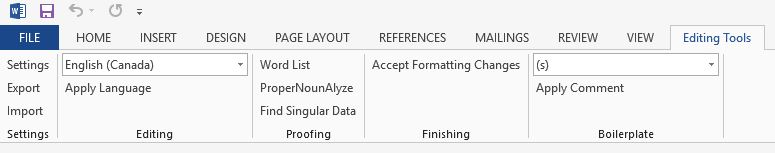
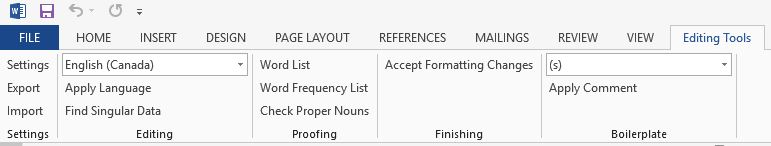
Added word frequency list and made new release

diff --git a/EditTools/Ribbon1.Designer.cs b/EditTools/Ribbon1.Designer.cs
@@ -51,6 +51,7 @@
             this.group4 = this.Factory.CreateRibbonGroup();
             this.dd_Boilerplate = this.Factory.CreateRibbonDropDown();
             this.btn_ApplyBoilerplate = this.Factory.CreateRibbonButton();
+            this.btn_WordFreq = this.Factory.CreateRibbonButton();
             this.EditingTools.SuspendLayout();
             this.group1.SuspendLayout();
             this.group2.SuspendLayout();
@@ -81,24 +82,29 @@
             // 
             this.btn_Settings.Label = "Settings";
             this.btn_Settings.Name = "btn_Settings";
+            this.btn_Settings.ScreenTip = "Add/remove/edit boilerplate and configure the edit distance for the proper noun c" +
+    "hecker";
             this.btn_Settings.Click += new Microsoft.Office.Tools.Ribbon.RibbonControlEventHandler(this.btn_Settings_Click);
             // 
             // btn_Export
             // 
             this.btn_Export.Label = "Export";
             this.btn_Export.Name = "btn_Export";
+            this.btn_Export.ScreenTip = "Save your boilerplate to an XML file you can back up or share";
             this.btn_Export.Click += new Microsoft.Office.Tools.Ribbon.RibbonControlEventHandler(this.btn_Export_Click);
             // 
             // btn_Import
             // 
             this.btn_Import.Label = "Import";
             this.btn_Import.Name = "btn_Import";
+            this.btn_Import.ScreenTip = "Import a boilerplate XML file";
             this.btn_Import.Click += new Microsoft.Office.Tools.Ribbon.RibbonControlEventHandler(this.button1_Click);
             // 
             // group2
             // 
             this.group2.Items.Add(this.dd_Langs);
             this.group2.Items.Add(this.btn_FixLang);
+            this.group2.Items.Add(this.btn_SingData);
             this.group2.Label = "Editing";
             this.group2.Name = "group2";
             // 
@@ -106,6 +112,8 @@
             // 
             this.dd_Langs.Label = "Languages";
             this.dd_Langs.Name = "dd_Langs";
+            this.dd_Langs.ScreenTip = "Apply selected language to the entire  document, including notes, headers and foo" +
+    "ters";
             this.dd_Langs.ShowLabel = false;
             this.dd_Langs.SizeString = "WWWWWWWWWWWWWWW";
             // 
@@ -113,13 +121,15 @@
             // 
             this.btn_FixLang.Label = "Apply Language";
             this.btn_FixLang.Name = "btn_FixLang";
+            this.btn_FixLang.ScreenTip = "Apply selected language to the entire  document, including notes, headers and foo" +
+    "ters";
             this.btn_FixLang.Click += new Microsoft.Office.Tools.Ribbon.RibbonControlEventHandler(this.btn_FixLang_Click);
             // 
             // group3
             // 
             this.group3.Items.Add(this.btn_WordList);
+            this.group3.Items.Add(this.btn_WordFreq);
             this.group3.Items.Add(this.btn_ProperNouns);
-            this.group3.Items.Add(this.btn_SingData);
             this.group3.Label = "Proofing";
             this.group3.Name = "group3";
             // 
@@ -127,18 +137,22 @@
             // 
             this.btn_WordList.Label = "Word List";
             this.btn_WordList.Name = "btn_WordList";
+            this.btn_WordList.ScreenTip = "Generate a list of all the unique words in the document";
             this.btn_WordList.Click += new Microsoft.Office.Tools.Ribbon.RibbonControlEventHandler(this.btn_WordList_Click);
             // 
             // btn_ProperNouns
             // 
-            this.btn_ProperNouns.Label = "ProperNounAlyze";
+            this.btn_ProperNouns.Label = "Check Proper Nouns";
             this.btn_ProperNouns.Name = "btn_ProperNouns";
+            this.btn_ProperNouns.ScreenTip = "Find proper nouns that sound alike or that differ by a configurable edit distance" +
+    "";
             this.btn_ProperNouns.Click += new Microsoft.Office.Tools.Ribbon.RibbonControlEventHandler(this.btn_ProperNouns_Click);
             // 
             // btn_SingData
             // 
             this.btn_SingData.Label = "Find Singular Data";
             this.btn_SingData.Name = "btn_SingData";
+            this.btn_SingData.ScreenTip = "Find \"data\" used as a singular noun";
             this.btn_SingData.Click += new Microsoft.Office.Tools.Ribbon.RibbonControlEventHandler(this.btn_SingData_Click);
             // 
             // grp_Finishing
@@ -164,6 +178,7 @@
             // 
             this.dd_Boilerplate.Label = "Comments";
             this.dd_Boilerplate.Name = "dd_Boilerplate";
+            this.dd_Boilerplate.ScreenTip = "Use the \"Settings\" button to add/remove/edit boilerplate";
             this.dd_Boilerplate.ShowLabel = false;
             this.dd_Boilerplate.SizeString = "WWWWWWWWWWWWWWW";
             // 
@@ -171,7 +186,15 @@
             // 
             this.btn_ApplyBoilerplate.Label = "Apply Comment";
             this.btn_ApplyBoilerplate.Name = "btn_ApplyBoilerplate";
+            this.btn_ApplyBoilerplate.ScreenTip = "Click to apply selected comment to the selected text; Use the \"Settings\" button t" +
+    "o add/remove/edit boilerplate";
             this.btn_ApplyBoilerplate.Click += new Microsoft.Office.Tools.Ribbon.RibbonControlEventHandler(this.btn_ApplyBoilerplate_Click);
+            // 
+            // btn_WordFreq
+            // 
+            this.btn_WordFreq.Label = "Word Frequency List";
+            this.btn_WordFreq.Name = "btn_WordFreq";
+            this.btn_WordFreq.Click += new Microsoft.Office.Tools.Ribbon.RibbonControlEventHandler(this.btn_WordFreq_Click);
             // 
             // Ribbon1
             // 
@@ -214,6 +237,7 @@
         internal Microsoft.Office.Tools.Ribbon.RibbonButton btn_SingData;
         internal Microsoft.Office.Tools.Ribbon.RibbonGroup grp_Finishing;
         internal Microsoft.Office.Tools.Ribbon.RibbonButton btn_AcceptFormatting;
+        internal Microsoft.Office.Tools.Ribbon.RibbonButton btn_WordFreq;
     }
 
     partial class ThisRibbonCollection

diff --git a/EditTools/Ribbon1.cs b/EditTools/Ribbon1.cs
@@ -554,5 +554,71 @@ namespace EditTools
             view.ShowInsertionsAndDeletions = true;
             MessageBox.Show("Formatting changes have been accepted.");
         }
+
+        private void btn_WordFreq_Click(object sender, RibbonControlEventArgs e)
+        {
+            Word.Document doc = Globals.ThisAddIn.Application.ActiveDocument;
+            Dictionary<string, uint> wordlist = new Dictionary<string, uint>();
+            Regex re_allnums = new Regex(@"^\d+$");
+
+            foreach (Word.Range rng in TextHelpers.GetText(doc))
+            {
+                string txt = rng.Text;
+
+                //strip punctuation
+                txt = TextHelpers.StripPunctuation(txt);
+
+
+                string[] substrs = Regex.Split(txt, @"\s+");
+                foreach (string word in substrs)
+                {
+                    Match m = re_allnums.Match(word);
+                    if (!m.Success)
+                    {
+                        if (wordlist.ContainsKey(word)) {
+                            wordlist[word]++;
+                        } else
+                        {
+                            wordlist.Add(word, 1);
+                        }
+                    }
+
+                }
+            }
+
+            //Create new document
+            Word.Document newdoc = Globals.ThisAddIn.Application.Documents.Add();
+            Word.Paragraph pgraph;
+
+            //Intro text
+            pgraph = newdoc.Content.Paragraphs.Add();
+            pgraph.set_Style(newdoc.Styles["Heading 1"]);
+            pgraph.Range.Text = "Word Frequency List\n";
+            pgraph = newdoc.Content.Paragraphs.Add();
+            pgraph.set_Style(newdoc.Styles["Normal"]);
+            pgraph.Range.Text = "Capitalization is retained as is. That means that words that appear at the beginning of a sentence will appear capitalized. Don't forget that you can sort the table!\n";
+
+            pgraph = newdoc.Content.Paragraphs.Add();
+            pgraph.Range.InsertBreak(Word.WdBreakType.wdSectionBreakContinuous);
+            Word.Section sec = newdoc.Sections[2];
+            sec.PageSetup.TextColumns.SetCount(3);
+
+            var words = wordlist.ToList();
+            words.Sort((pair1, pair2) => pair2.Value.CompareTo(pair1.Value));
+            newdoc.Tables.Add(pgraph.Range, words.Count, 2);
+            int row = 1;
+            foreach (var pair in words)
+            {
+                Word.Cell cell = newdoc.Tables[1].Cell(row, 1);
+                cell.Range.Text = pair.Key;
+                cell = newdoc.Tables[1].Cell(row, 2);
+                cell.Range.Text = pair.Value.ToString();
+                row++;
+            }
+
+            pgraph = newdoc.Content.Paragraphs.Add();
+            pgraph.Range.InsertBreak(Word.WdBreakType.wdSectionBreakContinuous);
+            newdoc.GrammarChecked = true;
+        }
     }
 }

diff --git a/README.md b/README.md
@@ -7,10 +7,11 @@ These are just a couple tools I coded for use where I work.
 Features include a
 
 * one-click language applicator,
-* one-click "accept formatting changes,"
-* proper noun discrepancy checker,
+* "singular data" finder,
 * word list generator,
-* "singular data" finder, and
+* word frequency generator,
+* proper noun discrepancy checker,
+* one-click "accept formatting changes," and
 * comment boilerplate manager.
 
 The language applicator applies the language to *all* text, including notes, headers, and footers. Text boxes and frames may be skipped. I haven't done extensive testing around those.
